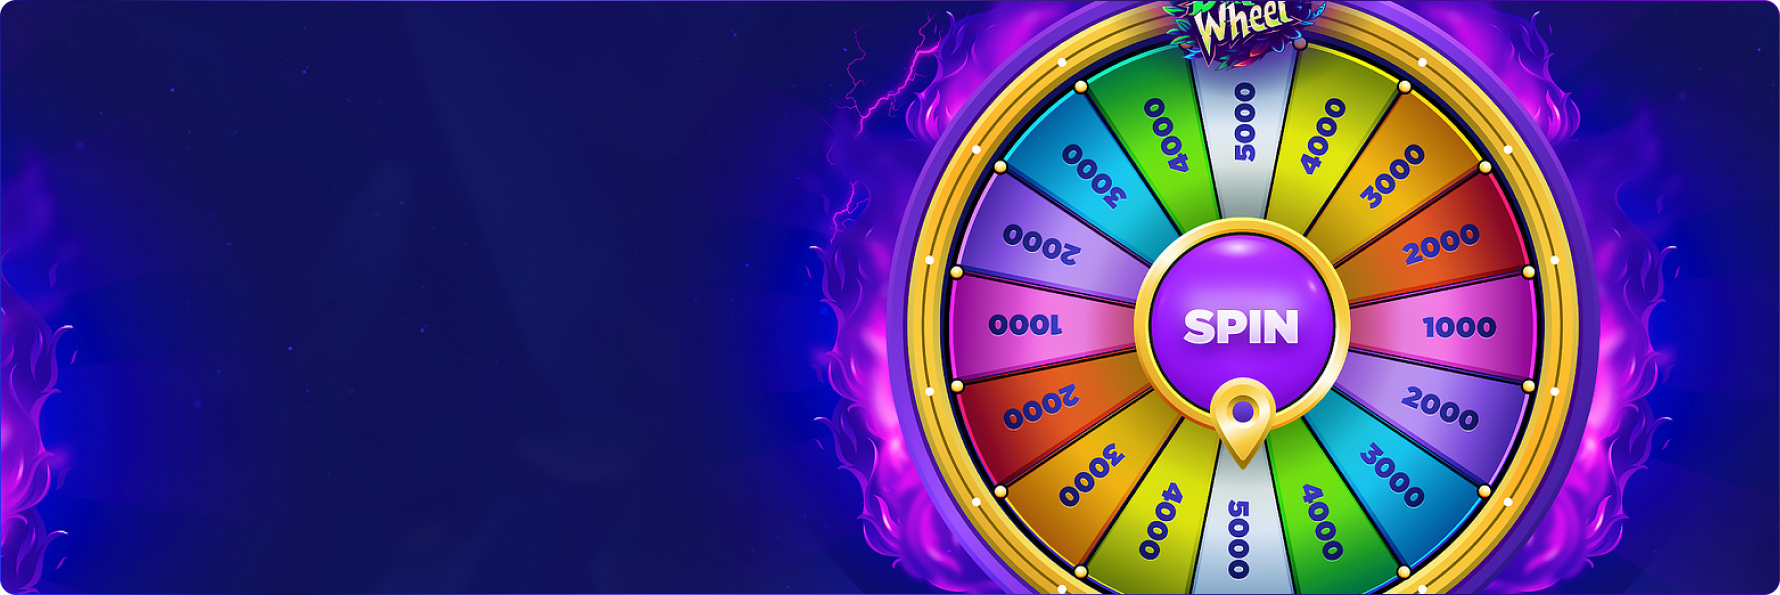
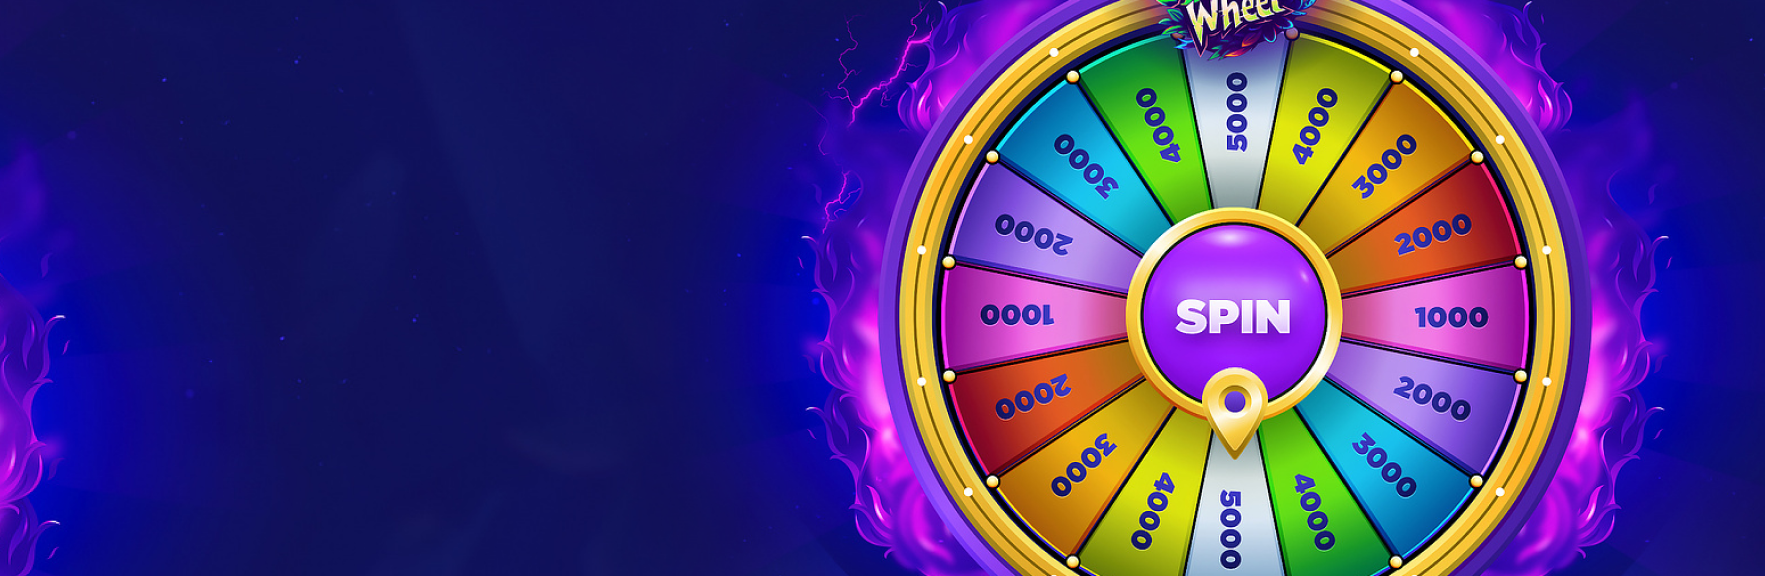
more design

diff --git a/components/base/Modal.vue b/components/base/Modal.vue
@@ -36,21 +36,29 @@ const open = computed({
     <div class="flex flex-row">
       <div
         v-if="banner === 'left'"
-        class="w-1/3 hidden sm:block"
+        class="w-[40%] hidden sm:block"
       >
-        banner left
+        <NuxtImg
+          src="/assets/images/wheel-2-vertical.png"
+          alt="Wheel"
+          class="w-full object-cover sm:rounded-l-lg"
+        />
       </div>
       <div class="flex-grow flex flex-col items-center">
         <div
           v-if="banner === 'left' || banner === 'top'"
           :class="{ 'sm:hidden': banner === 'left' }"
         >
-          banner top
+          <NuxtImg
+            src="/assets/images/wheel-2.png"
+            alt="Wheel"
+            class="w-full aspect-[100/37] object-cover sm:rounded-t-lg"
+          />
         </div>
 
         <div
           v-if="logo"
-          class="w-[9rem] mt-6 pb-2 self-center"
+          class="w-[9rem] mt-10 pb-2 self-center"
         >
           <IconLogo />
         </div>

diff --git a/components/base/Dialog.vue b/components/base/Dialog.vue
@@ -25,10 +25,10 @@ const dialogVariants = cva(
   {
     variants: {
       variant: {
-        frosted: "bg-emphasis/85 backdrop-blur-lg sm:rounded-default",
+        frosted: "bg-emphasis/85 backdrop-blur-lg",
       },
       size: {
-        md: "p-5 sm:max-w-[30rem] sm:min-h-[8rem] sm:max-h-[90vh] sm:self-center sm:justify-self-center",
+        md: "p-5 sm:rounded-lg sm:max-w-[30rem] sm:min-h-[8rem] sm:max-h-[90vh] sm:self-center sm:justify-self-center",
       },
     },
     defaultVariants: {

diff --git a/components/modal/Login.vue b/components/modal/Login.vue
@@ -6,10 +6,9 @@ const loading = ref(false);
 <template>
   <BaseModal
     v-model:open="open"
+    :disabled="loading"
     :close-on-click-outside="false"
     banner="top"
-    :logo="true"
-    :disabled="loading"
   >
     <div>this is text</div>
     <!-- <FormLogin /> -->
